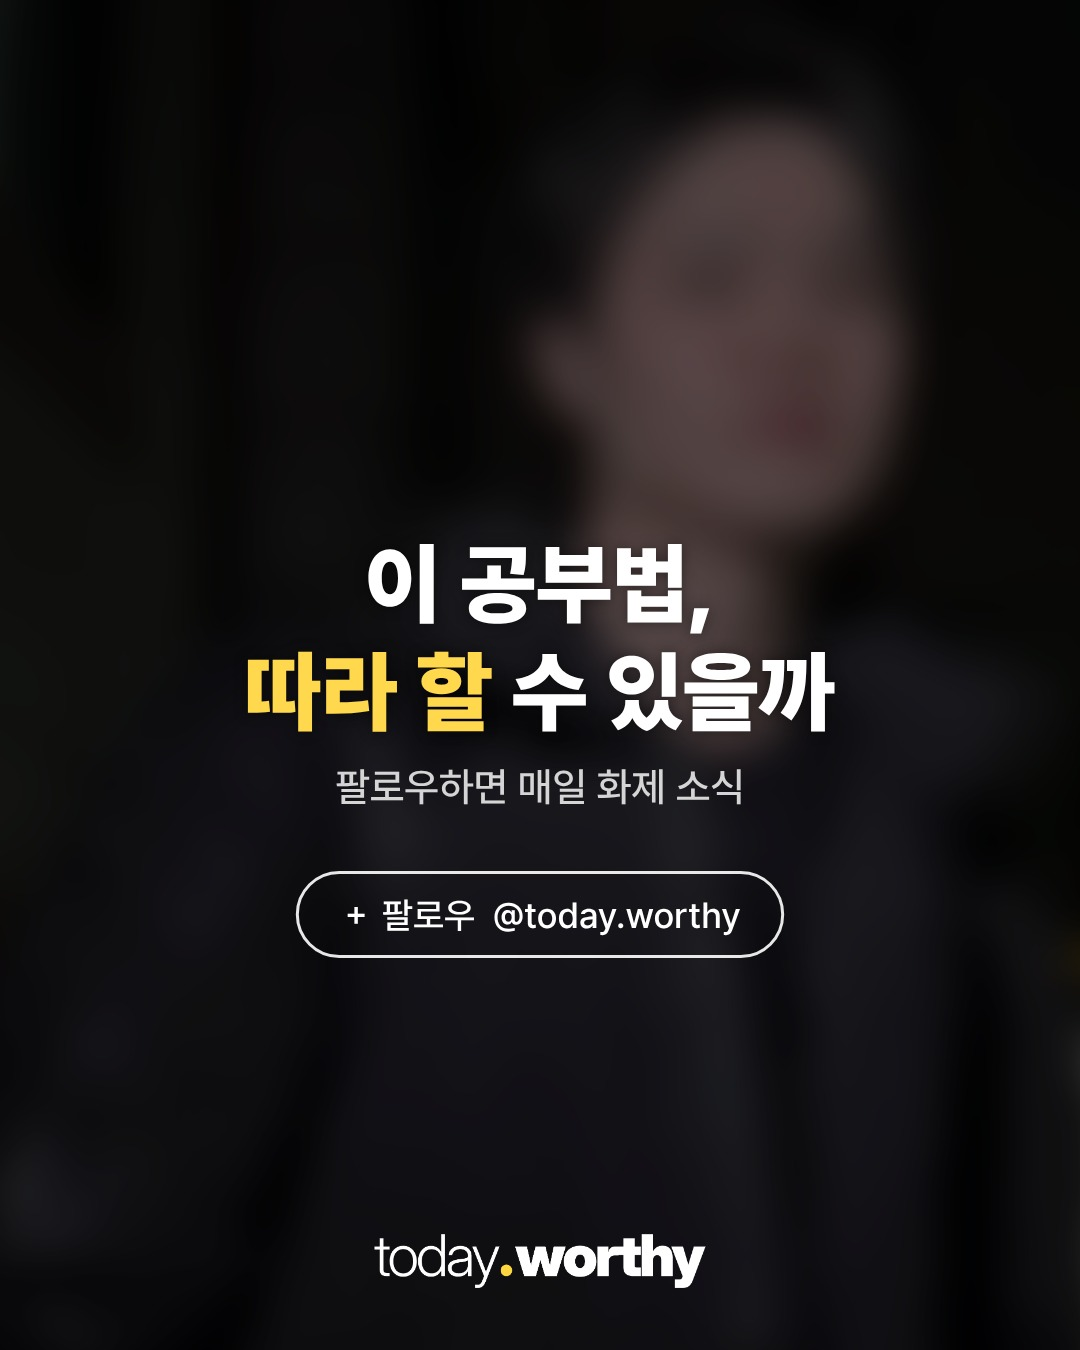
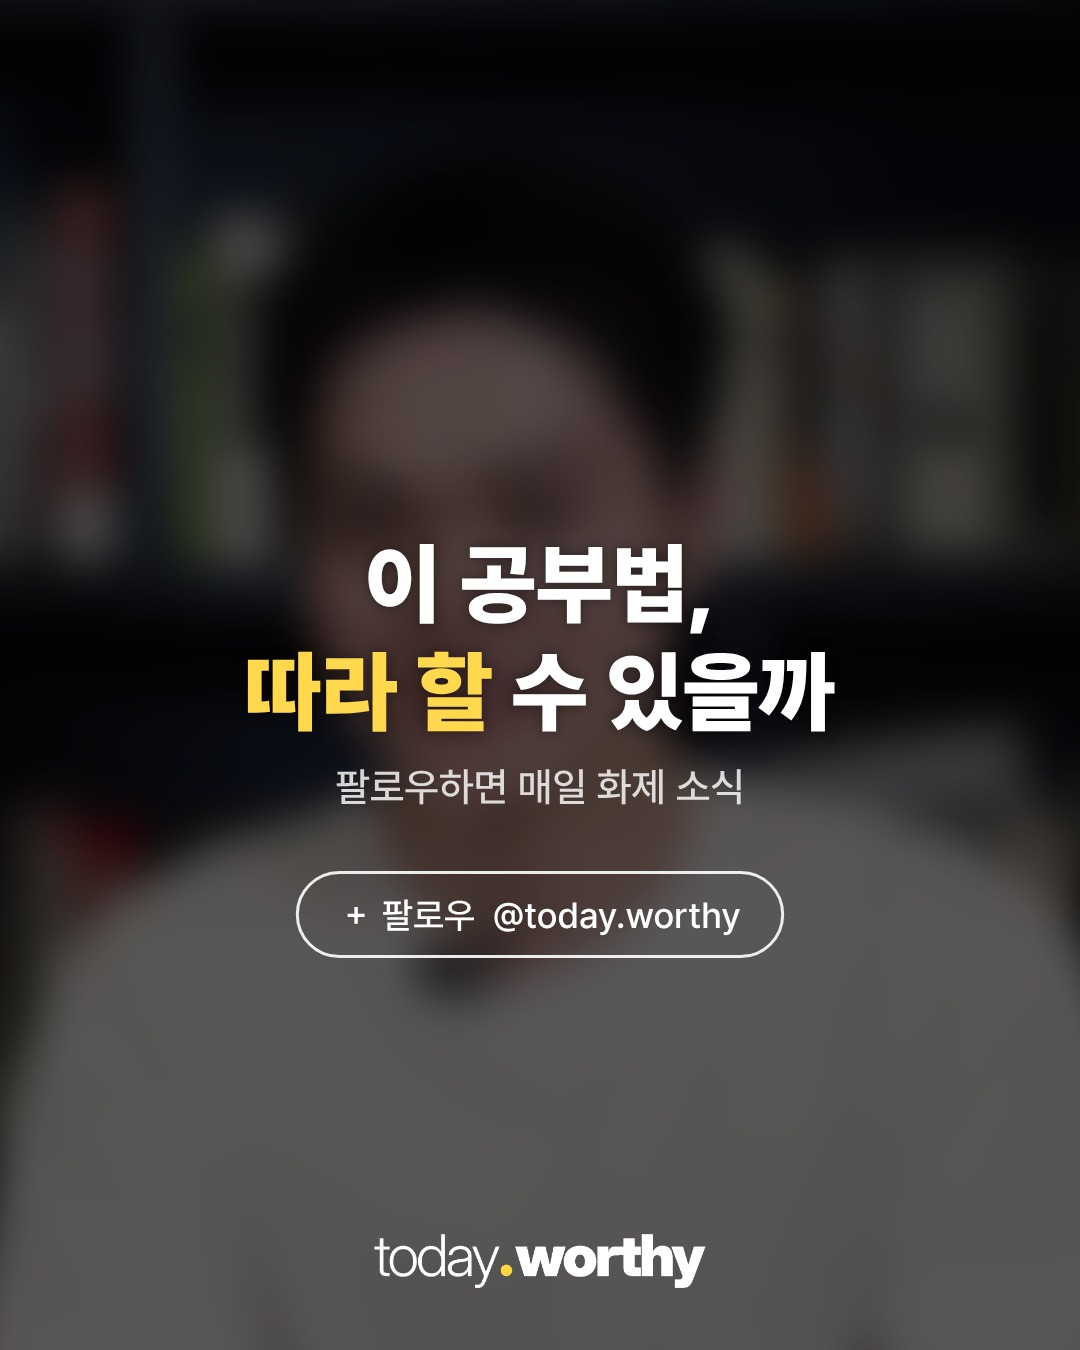
leetlec 표지: DreamSchool 인터뷰 화면(책장 앞)
Claude-Session: https://claude.ai/code/session_01FGsw5QnWxFUsnopcB1Czie

diff --git a/media/20261118-leetlec/build_cards.py b/media/20261118-leetlec/build_cards.py
@@ -1,5 +1,5 @@
 """20261118-leetlec: 리트 만점자 특강 후기 — '엔트로피' 나오면 '트로피'를 떠올린다, 필기 안 함(고려대 커뮤니티 고파스 익명 후기, X @itwillbe_sage 경유)
-+ 리트 국어 강사(노형석)가 설명회에서 '계'를 '강아지'로 연상한다는 설명을 듣고 끝까지 안 듣고 나왔다는 내용(나무위키 인용). 실명 안 씀, 인스타 사진은 안 씀."""
++ 리트 국어 강사(노형석)가 설명회에서 '계'를 '강아지'로 연상한다는 설명을 듣고 끝까지 안 듣고 나왔다는 내용(나무위키 인용). 실명 안 씀, 인스타 사진은 안 씀. 표지: 유튜브 DreamSchool 인터뷰 화면."""
 import json, subprocess, sys
 from pathlib import Path
 from PIL import Image, ImageOps
@@ -23,5 +23,7 @@ for lab, txt in rows:
     y += 172
 d.text((P, y + 20), "나무위키 인용(해당 강사 발언 출처 표기)", font=F("Medium", 26), fill=MU)
 logo(im); im.save(O / "c03.jpg", quality=93)
-ImageOps.fit(Image.open(O / "photo.jpg").convert("RGB"), (W, H), Image.LANCZOS, centering=(.64, .3)).save(O / "cover_bg.jpg", quality=95)
+from PIL import ImageFilter
+# 표지(사용자: 본인이 나오되 다른 사진): DreamSchool 인터뷰 화면(책장 앞, 10초) — 아래 박힌 자막은 잘라냄
+ImageOps.fit(Image.open(O / "ds_10.png").convert("RGB").crop((640, 0, 1260, 625)), (W, H), Image.LANCZOS, centering=(.45, .3)).filter(ImageFilter.UnsharpMask(2, 70, 2)).save(O / "cover_bg.jpg", quality=95)
 print("ok")
